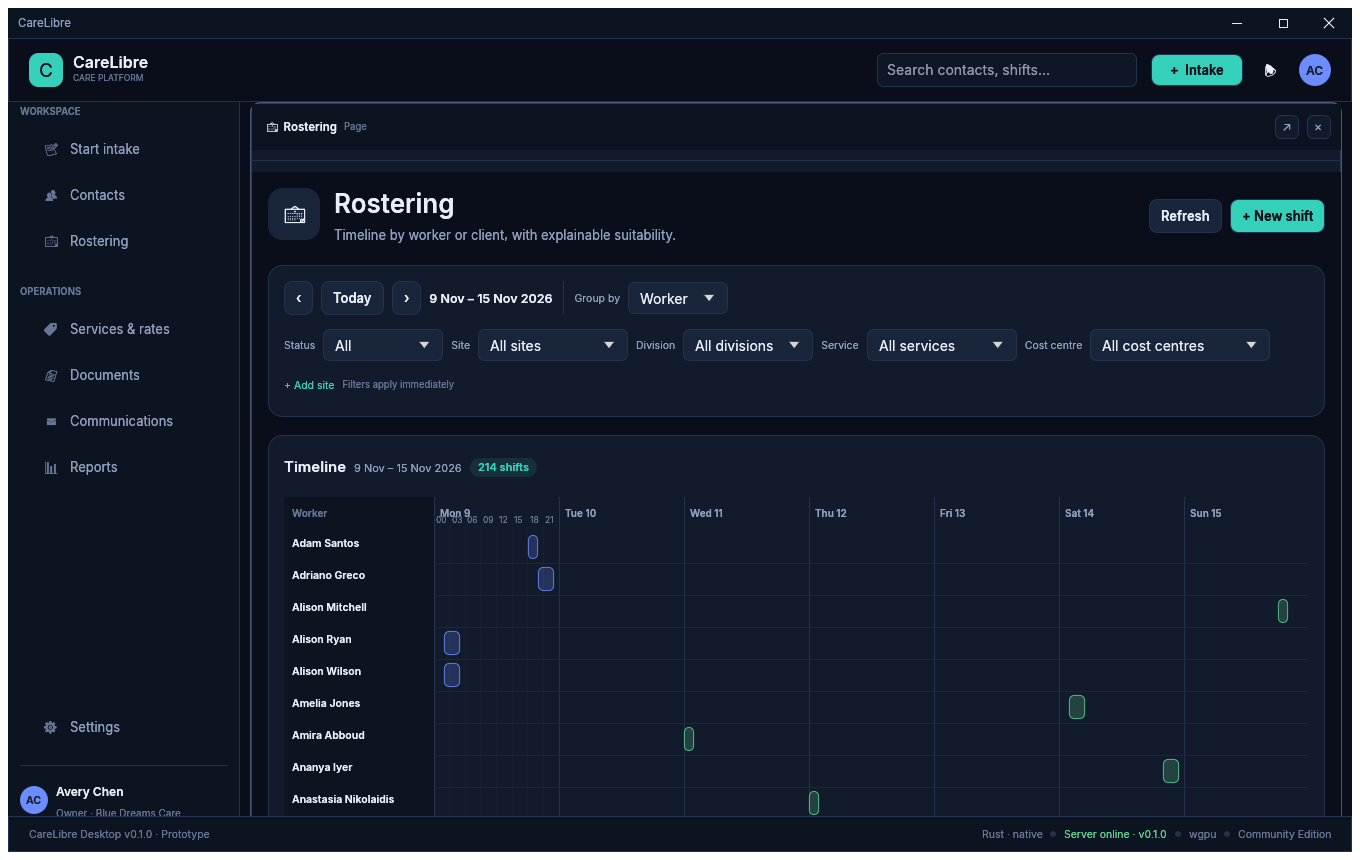
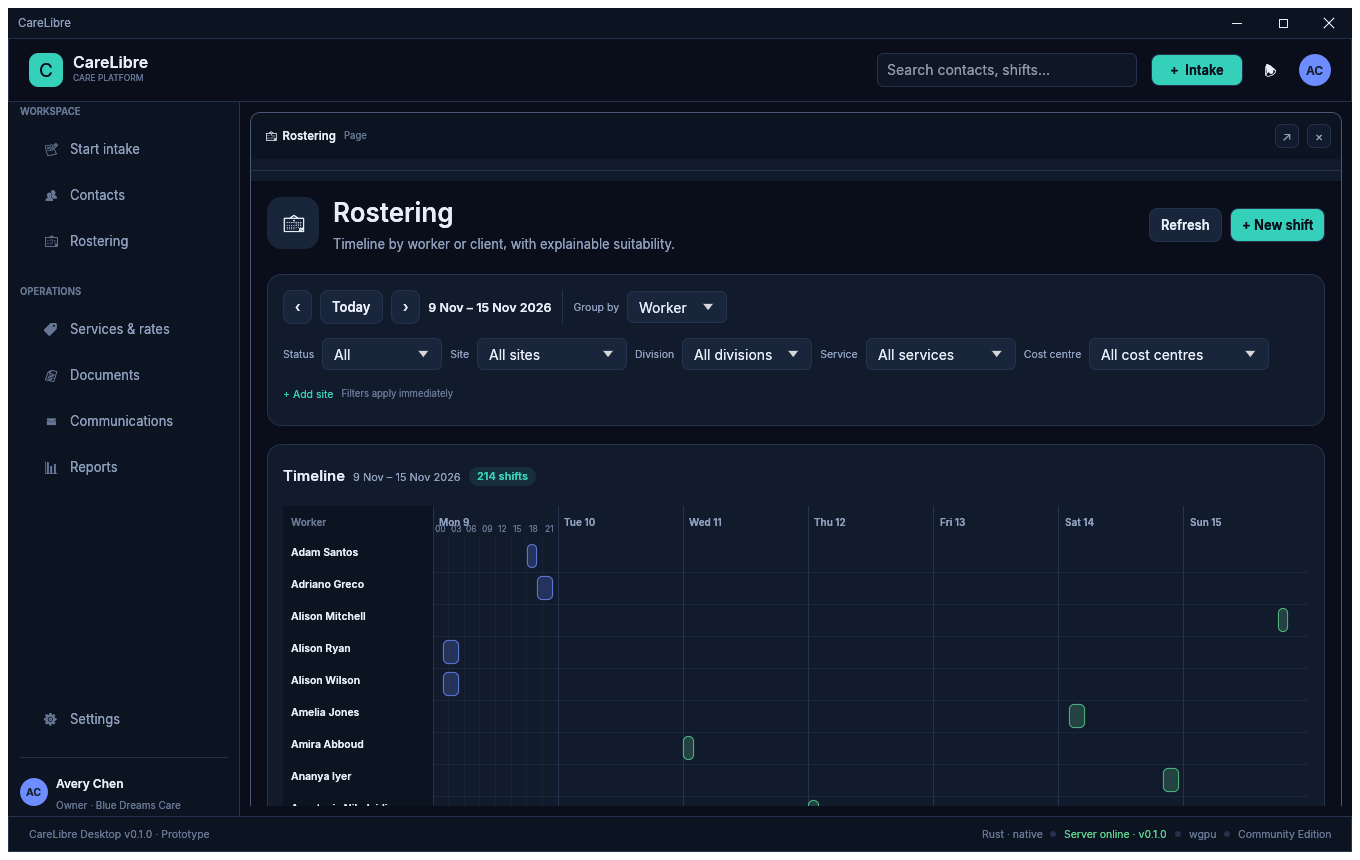
Fix column corners, add workspace padding, and clear the status bar
Rounds the column header background with the column frame so the top corners stay clean, restores a 1px border, adds top and bottom padding around open columns, lifts the menu footer above the status bar, and gives the status bar enough height to avoid covering content. Refreshes the screenshots.

diff --git a/src/app.rs b/src/app.rs
@@ -41,6 +41,8 @@ use crate::{
 const MAX_RECORD_COLUMNS: usize = 5;
 const COLUMN_MIN_WIDTH: f32 = 240.0;
 const COLUMN_STRIP_PADDING: f32 = 10.0;
+const COLUMN_STRIP_TOP_PADDING: f32 = 10.0;
+const COLUMN_STRIP_BOTTOM_PADDING: f32 = 10.0;
 const SIDEBAR_WIDTH: f32 = 232.0;
 const CENTERED_MENU_WIDTH: f32 = 440.0;
 const CENTERED_MENU_HEIGHT: f32 = 710.0;
@@ -1898,6 +1900,7 @@ impl CareLibreApp {
         if visible.is_empty() {
             return page_action;
         }
+        ui.add_space(COLUMN_STRIP_TOP_PADDING);
         let viewport_width = ui.available_width();
         let strip_width = (viewport_width - COLUMN_STRIP_PADDING * 2.0).max(1.0);
         let now = ui.ctx().input(|input| input.time);
@@ -1907,7 +1910,7 @@ impl CareLibreApp {
         let content_width = self.normalise_column_widths(&visible, strip_width, now);
         let handle_width = 7.0;
 
-        let height = ui.available_height();
+        let height = (ui.available_height() - COLUMN_STRIP_BOTTOM_PADDING).max(120.0);
 
         let catalog = self.lookup_parties();
         let roles = self.role_options.clone();
@@ -2005,7 +2008,7 @@ impl CareLibreApp {
                     .stroke(if is_dragging {
                         Stroke::new(2.0, theme::accent())
                     } else {
-                        Stroke::new(1.5, theme::border_strong())
+                        Stroke::new(1.0, theme::border_strong())
                     })
                     .corner_radius(CornerRadius::same(10))
                     .inner_margin(Margin::ZERO)
@@ -2244,6 +2247,12 @@ impl CareLibreApp {
 
         let frame = Frame::new()
             .fill(theme::sidebar())
+            .corner_radius(CornerRadius {
+                nw: 9,
+                ne: 9,
+                sw: 0,
+                se: 0,
+            })
             .inner_margin(Margin::symmetric(10, 6))
             .show(ui, |ui| {
                 let width = ui.available_width();
@@ -4912,6 +4921,7 @@ impl CareLibreApp {
                     menu_ui.scope(|ui| {
                         ui.multiply_opacity(1.0 - centeredness);
                         ui.with_layout(Layout::bottom_up(Align::Min), |ui| {
+                            ui.add_space(8.0);
                             if user_row(ui, account.as_ref()) {
                                 self.open_page(Page::Settings);
                             }
